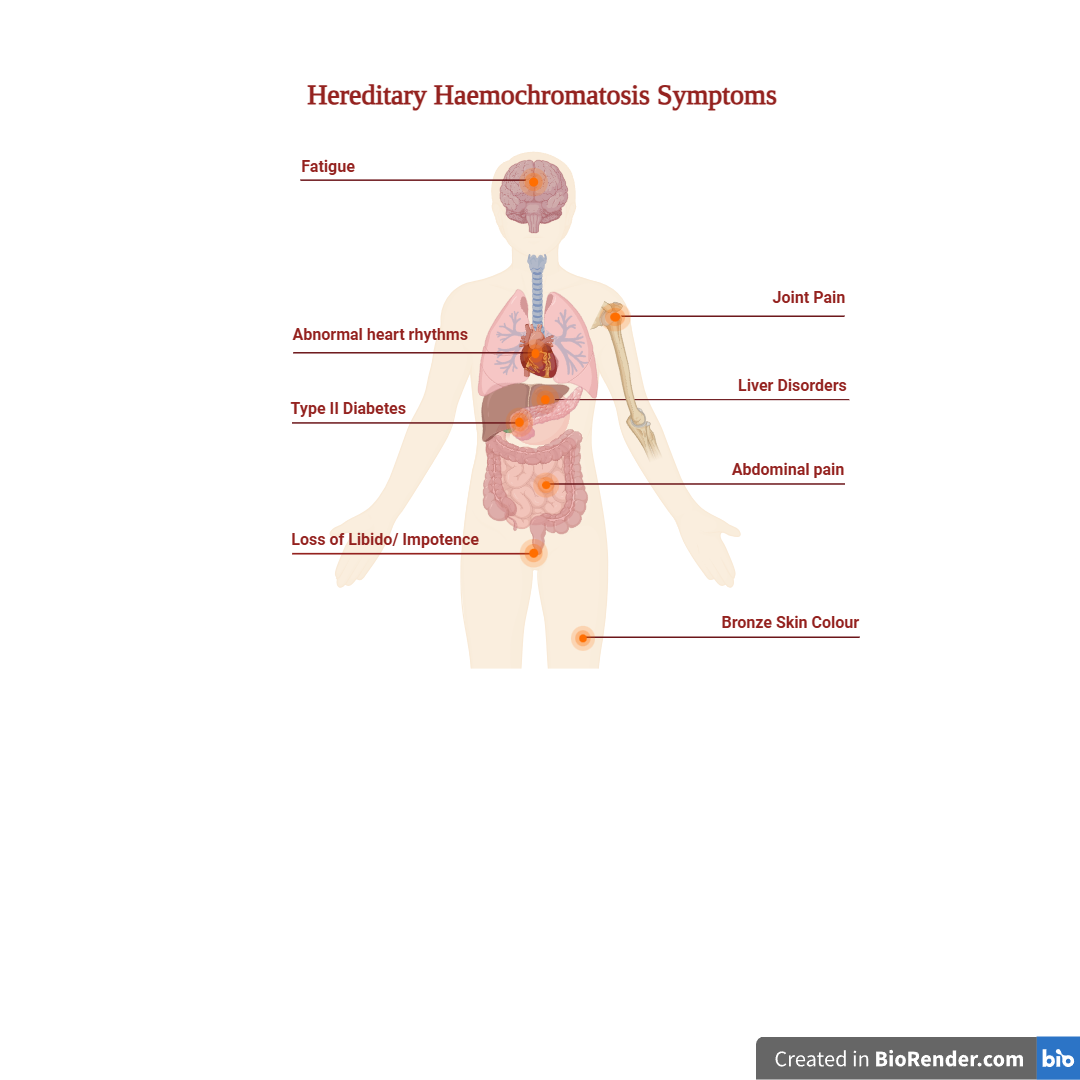
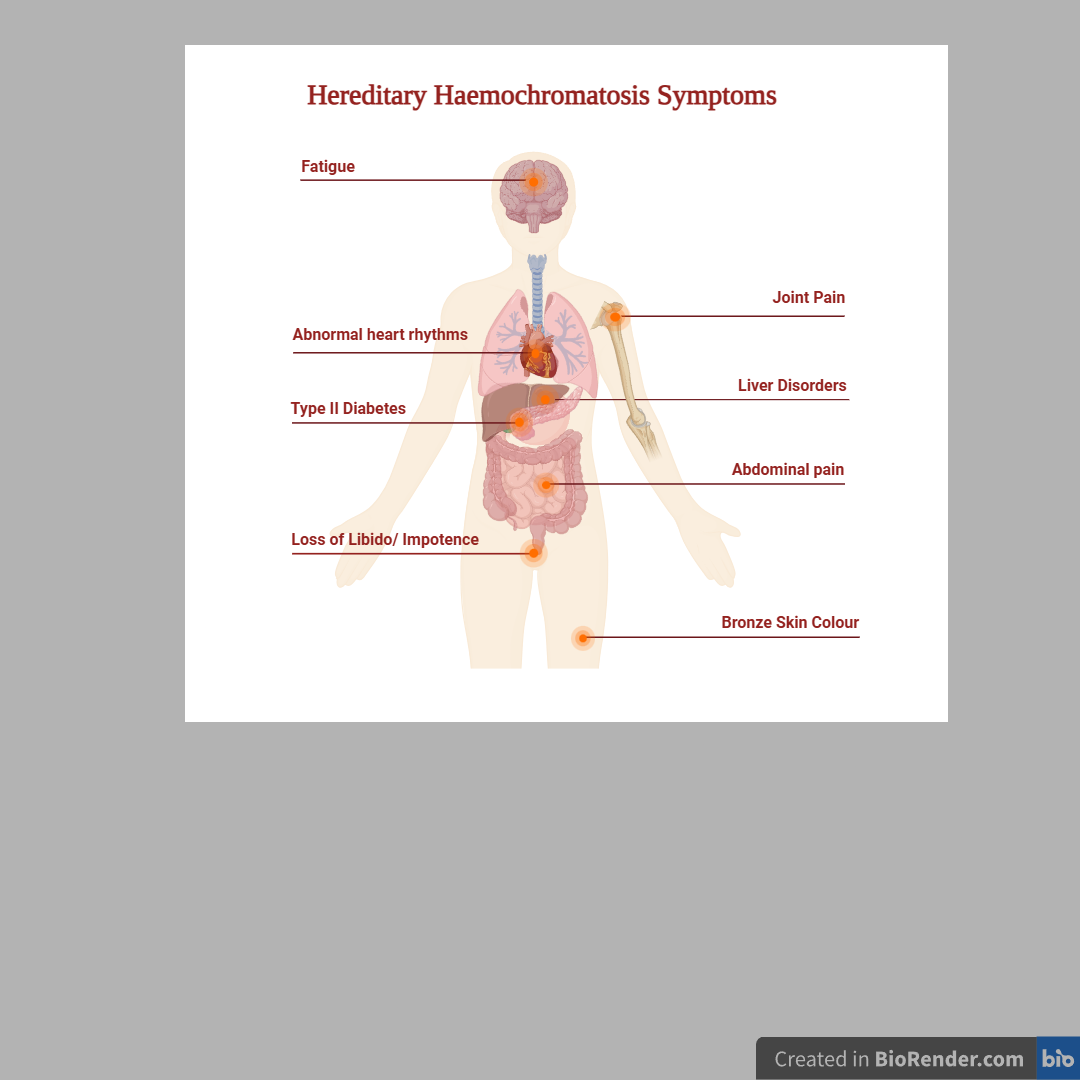
feat: HaemoBot gradient styling outline added

diff --git a/haemofoods/src/components/ui/ChatWidget.jsx b/haemofoods/src/components/ui/ChatWidget.jsx
@@ -76,78 +76,83 @@ export default function ChatWidget() {
     <div className="fixed bottom-6 right-6 z-50 flex flex-col items-end">
 
       {isOpen && (
-        <div className="mb-4 w-80 h-96 bg-white rounded-2xl shadow-xl border border-stone-200 flex flex-col overflow-hidden">
+        <div className="mb-4 p-0.5 rounded-2xl bg-gradient-to-br from-pink-500 to-orange-400 shadow-xl">
+          <div className="w-80 h-96 bg-white rounded-2xl flex flex-col overflow-hidden">
 
-          {/* header */}
-          <div className="bg-red-100 px-4 py-3 flex items-center justify-between">
-            <div className="flex items-center gap-2">
-              <img
-                src="/images/HaemoBot_v1.png"
-                alt="HaemoBot"
-                className="w-8 h-8 rounded-full object-cover"
-              />
-              <div>
-                <p className="text-stone-800 font-bold text-sm">HaemoBot</p>
-                <p className="text-black-500 text-xs">Haemochromatosis dietary assistant</p>
+            {/* header */}
+            <div className="bg-red-100 px-4 py-3 flex items-center justify-between">
+              <div className="flex items-center gap-2">
+                <img
+                  src="/images/HaemoBot_v1.png"
+                  alt="HaemoBot"
+                  className="w-8 h-8 rounded-full object-cover"
+                />
+                <div>
+                  <p className="text-stone-800 font-bold text-sm">HaemoBot</p>
+                  <p className="text-black-500 text-xs">Haemochromatosis dietary assistant</p>
+                </div>
               </div>
-            </div>
-            <button
-              onClick={() => setIsOpen(false)}
-              className="bg-red-100 hover:text-white text-lg leading-none"
-            >
-              ✕
-            </button>
-          </div>
-
-          {/* message list */}
-          <div className="flex-1 overflow-y-auto p-3 flex flex-col gap-2">
-            {messages.map((message, index) => (
-              <div
-                key={index}
-                className={`text-sm rounded-2xl px-3 py-2 max-w-xs
-                  ${message.role === 'user'
-                    ? 'bg-red-700 text-white self-end rounded-br-sm'
-                    : 'bg-stone-100 text-stone-800 self-start rounded-bl-sm'
-                  }`}
+              <button
+                onClick={() => setIsOpen(false)}
+                className="bg-red-100 hover:text-white text-lg leading-none"
               >
-                {message.content}
-              </div>
-            ))}
-            <div ref={bottomRef} />
-          </div>
+                ✕
+              </button>
+            </div>
 
-          {/* input bar */}
-          <div className="p-2 border-t border-stone-200 flex gap-2">
-            <input
-              type="text"
-              value={input}
-              onChange={(e) => setInput(e.target.value)}
-              onKeyDown={(e) => e.key === 'Enter' && handleSend()}
-              placeholder="Ask about haemochromatosis..."
-              className="flex-1 text-sm bg-stone-100 rounded-full px-3 py-2 outline-none focus:ring-2 focus:ring-red-300"
-            />
-            <button
-              onClick={handleSend}
-              className="w-8 h-8 bg-red-700 hover:bg-red-800 text-white rounded-full flex items-center justify-center text-sm transition-colors"
-            >
-              ↑
-            </button>
-          </div>
+            {/* message list */}
+            <div className="flex-1 overflow-y-auto p-3 flex flex-col gap-2">
+              {messages.map((message, index) => (
+                <div
+                  key={index}
+                  className={`text-sm rounded-2xl px-3 py-2 max-w-xs
+              ${message.role === 'user'
+                      ? 'bg-red-700 text-white self-end rounded-br-sm'
+                      : 'bg-stone-100 text-stone-800 self-start rounded-bl-sm'
+                    }`}
+                >
+                  {message.content}
+                </div>
+              ))}
+              <div ref={bottomRef} />
+            </div>
 
+            {/* input bar */}
+            <div className="p-2 border-t border-stone-200 flex gap-2">
+              <input
+                type="text"
+                value={input}
+                onChange={(e) => setInput(e.target.value)}
+                onKeyDown={(e) => e.key === 'Enter' && handleSend()}
+                placeholder="Ask about haemochromatosis..."
+                className="flex-1 text-sm bg-stone-100 rounded-full px-3 py-2 outline-none focus:ring-2 focus:ring-red-300"
+              />
+              <button
+                onClick={handleSend}
+                className="w-8 h-8 bg-red-700 hover:bg-red-800 text-white rounded-full flex items-center justify-center text-sm transition-colors"
+              >
+                ↑
+              </button>
+            </div>
+
+          </div>
         </div>
       )}
 
       {/* floating button */}
       <button
         onClick={() => setIsOpen(!isOpen)}
-        className="w-14 h-14 bg-red-300 hover:bg-red-800 text-white rounded-full shadow-lg flex items-center justify-center text-2xl transition-colors"
+        className="p-0.5 rounded-full bg-gradient-to-br from-pink-500 to-orange-400 shadow-lg"
       >
-        {isOpen
-          ? '✕'
-          : <img src="/images/HaemoBot_v1.png" alt="HaemoBot" className="w-full h-full object=cover" />
-        }
+        <div className="w-14 h-14 bg-white rounded-full flex items-center justify-center text-2xl overflow-hidden">
+          {isOpen
+            ? '✕'
+            : <img src="/images/HaemoBot_v1.png" alt="HaemoBot" className="w-full h-full object=cover" />
+          }
+        </div>
       </button>
 
     </div>
+
   )
 }